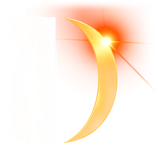
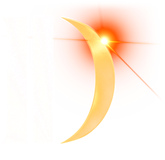
Dark theme: build the flare mark from the corrected single-halo file (preview)

diff --git a/index.html b/index.html
@@ -106,7 +106,7 @@
   :root[data-theme="dark"] .logo-light { display: none !important; }
   :root[data-theme="dark"] .logo-dark { display: block !important; }
   /* Dark theme: long-flare mark. The D matches the light mark's size; the glow overflows without moving the layout. */
-  :root[data-theme="dark"] .brand img.logo-dark { height: 32.5px; margin: -3.25px -8.1px -3.25px 0; }
+  :root[data-theme="dark"] .brand img.logo-dark { height: 32.5px; margin: -3.25px -9.6px -3.25px 0; }
 
   .nav { display: flex; align-items: center; gap: 1.5rem; }
   .nav a { font-size: 0.9375rem; color: var(--muted); text-decoration: none; min-height: 44px; display: inline-flex; align-items: center; }
@@ -427,7 +427,7 @@
   <div class="wrap header-inner">
     <a class="brand" href="./" aria-label="DANDO LLC home">
       <img class="logo-light" src="dando-mark-nostar-on-light.png" width="177" height="192" alt="" aria-hidden="true">
-      <img class="logo-dark" src="dando-mark-flare-on-dark.png" width="158" height="160" alt="" aria-hidden="true">
+      <img class="logo-dark" src="dando-mark-flare-on-dark.png" width="165" height="160" alt="" aria-hidden="true">
       <span class="brand-name">DANDO <span>LLC</span></span>
     </a>
     <nav class="nav" id="site-nav" aria-label="Sections">
@@ -726,7 +726,7 @@
     <div class="footer-grid">
       <div class="footer-brand">
         <img class="logo-light" src="dando-mark-nostar-on-light.png" width="177" height="192" alt="" aria-hidden="true">
-        <img class="logo-dark" src="dando-mark-flare-on-dark.png" width="158" height="160" alt="" aria-hidden="true">
+        <img class="logo-dark" src="dando-mark-flare-on-dark.png" width="165" height="160" alt="" aria-hidden="true">
         <p>DANDO LLC</p>
         <p class="tag">AI governance for law firms and general counsel</p>
       </div>

diff --git a/makeover.html b/makeover.html
@@ -107,7 +107,7 @@
   :root[data-theme="dark"] .logo-light { display: none !important; }
   :root[data-theme="dark"] .logo-dark { display: block !important; }
   /* Dark theme: long-flare mark. The D matches the light mark's size; the glow overflows without moving the layout. */
-  :root[data-theme="dark"] .brand img.logo-dark { height: 32.5px; margin: -3.25px -8.1px -3.25px 0; }
+  :root[data-theme="dark"] .brand img.logo-dark { height: 32.5px; margin: -3.25px -9.6px -3.25px 0; }
 
   .nav { display: flex; align-items: center; gap: 1.5rem; }
   .nav a { font-size: 0.9375rem; color: var(--muted); text-decoration: none; min-height: 44px; display: inline-flex; align-items: center; }
@@ -352,7 +352,7 @@
   <div class="wrap header-inner">
     <a class="brand" href="./" aria-label="DANDO LLC home">
       <img class="logo-light" src="dando-mark-nostar-on-light.png" width="177" height="192" alt="" aria-hidden="true">
-      <img class="logo-dark" src="dando-mark-flare-on-dark.png" width="158" height="160" alt="" aria-hidden="true">
+      <img class="logo-dark" src="dando-mark-flare-on-dark.png" width="165" height="160" alt="" aria-hidden="true">
       <span class="brand-name">DANDO <span>LLC</span></span>
     </a>
     <nav class="nav" id="site-nav" aria-label="Sections">
@@ -465,7 +465,7 @@
     <div class="footer-grid">
       <div class="footer-brand">
         <img class="logo-light" src="dando-mark-nostar-on-light.png" width="177" height="192" alt="" aria-hidden="true">
-        <img class="logo-dark" src="dando-mark-flare-on-dark.png" width="158" height="160" alt="" aria-hidden="true">
+        <img class="logo-dark" src="dando-mark-flare-on-dark.png" width="165" height="160" alt="" aria-hidden="true">
         <p>DANDO LLC</p>
         <p class="tag">AI governance advisory and research</p>
       </div>
